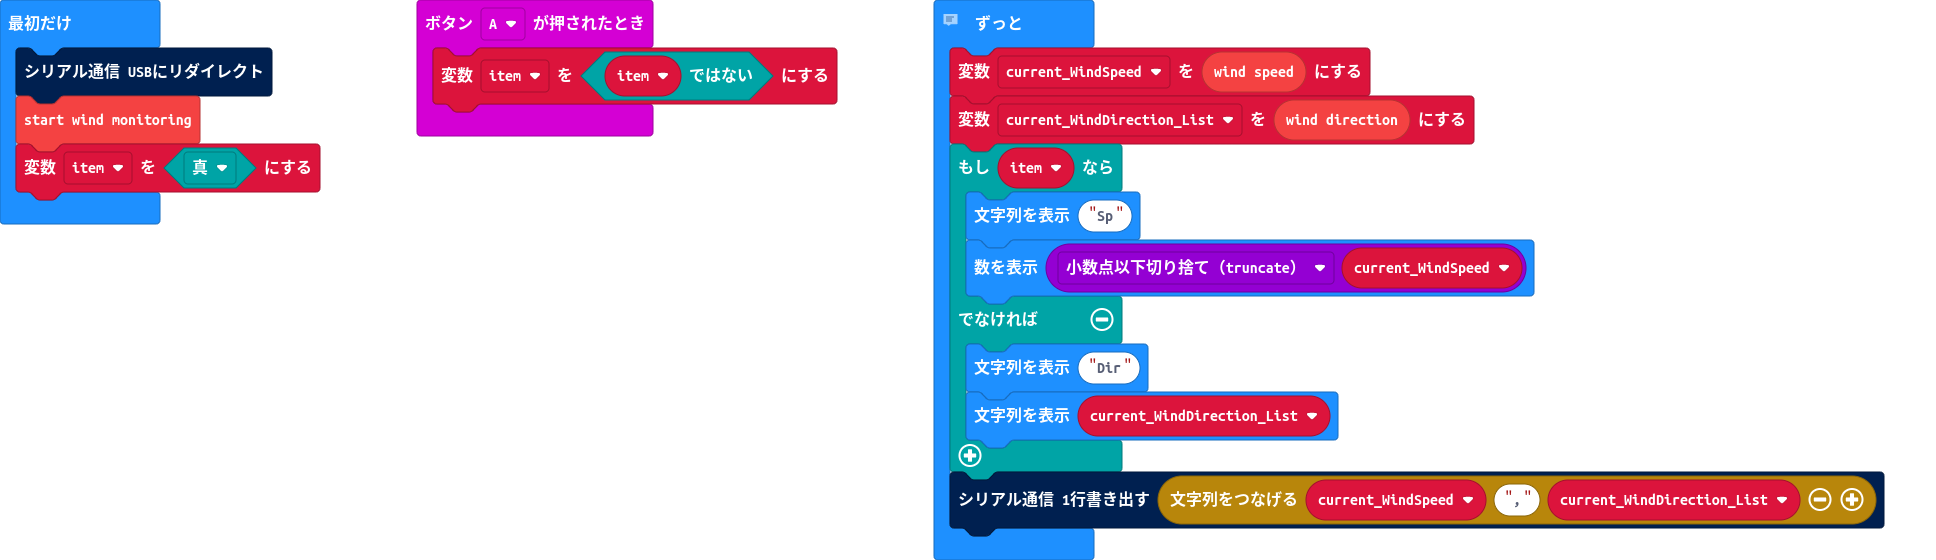
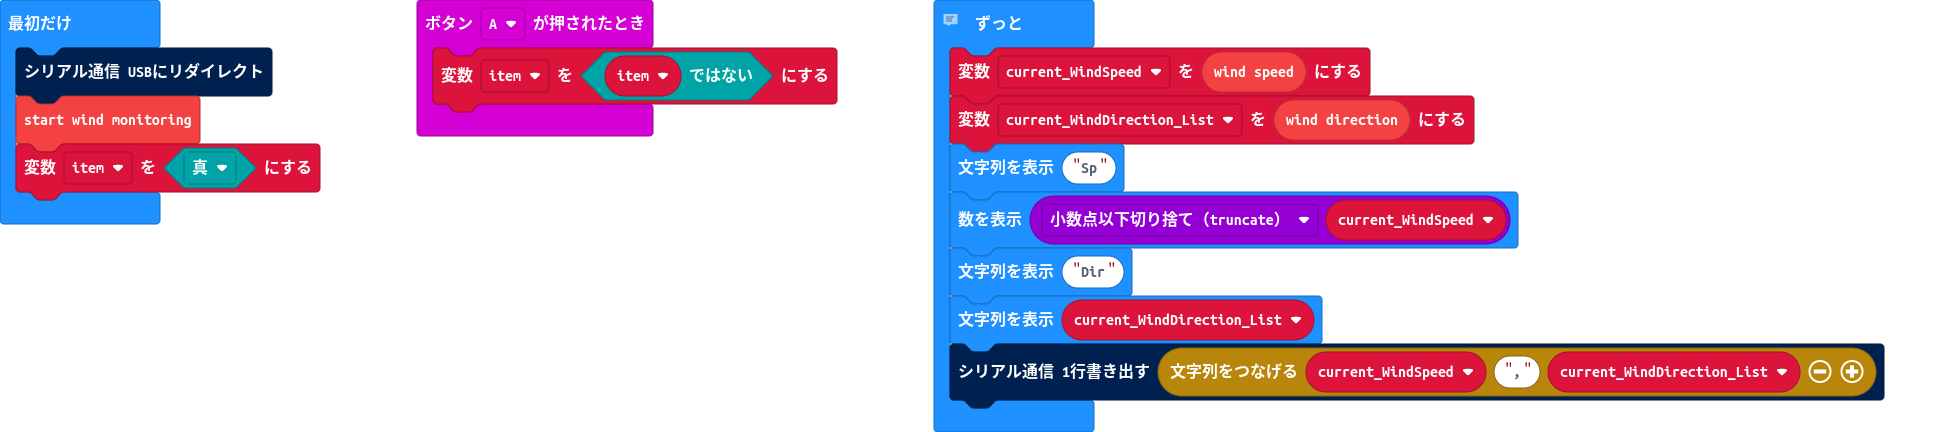
Update main.blocks, main.ts

Changed region(s): [[0.4649, 0.0301, 0.9917, 0.963], [0.0, 0.0301, 0.186, 0.5417], [0.2169, 0.0, 0.4339, 0.331]]

diff --git a/main.ts b/main.ts
@@ -11,12 +11,9 @@ item = true
 basic.forever(function () {
     current_WindSpeed = weatherbit.windSpeed()
     current_WindDirection_List = weatherbit.windDirection()
-    if (item) {
-        basic.showString("Sp")
-        basic.showNumber(Math.trunc(current_WindSpeed))
-    } else {
-        basic.showString("Dir")
-        basic.showString(current_WindDirection_List)
-    }
+    basic.showString("Sp")
+    basic.showNumber(Math.trunc(current_WindSpeed))
+    basic.showString("Dir")
+    basic.showString(current_WindDirection_List)
     serial.writeLine("" + current_WindSpeed + "," + current_WindDirection_List)
 })
